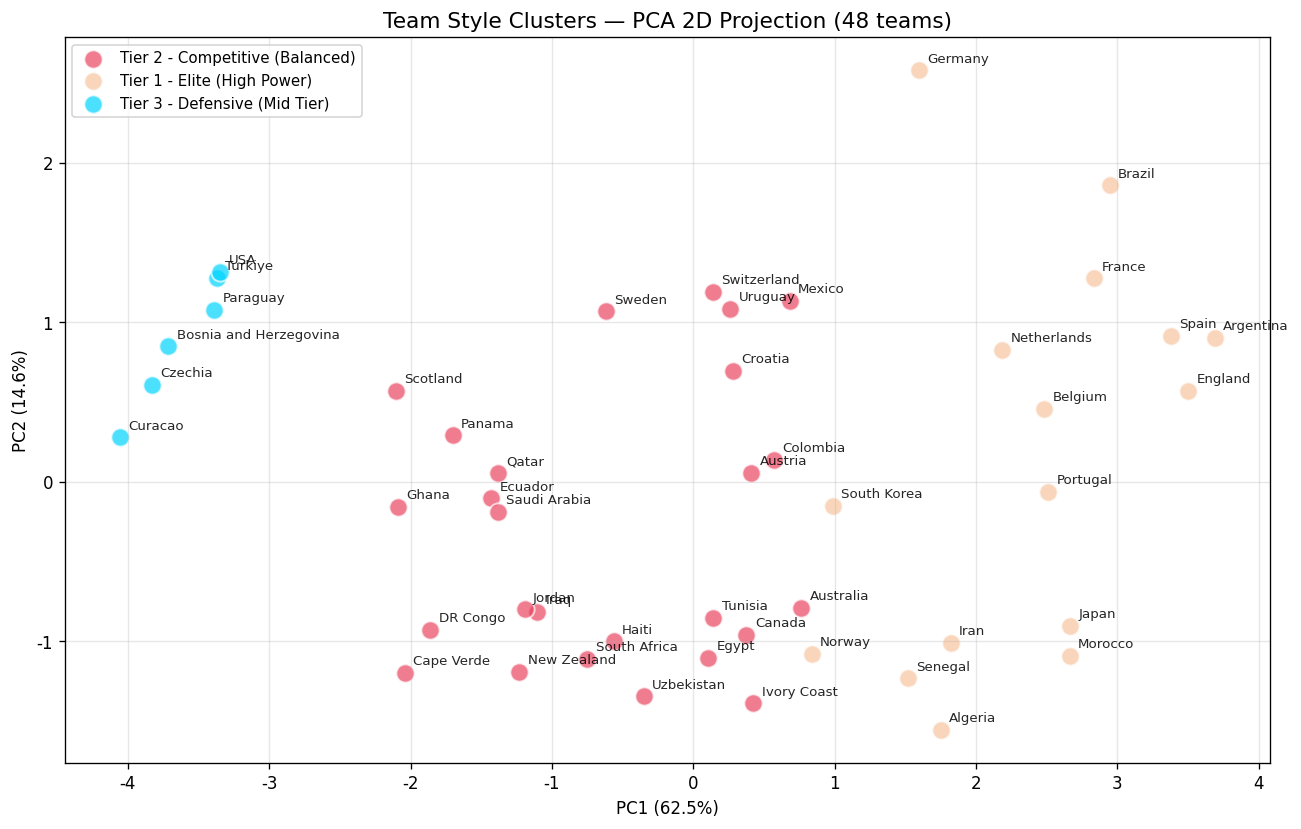
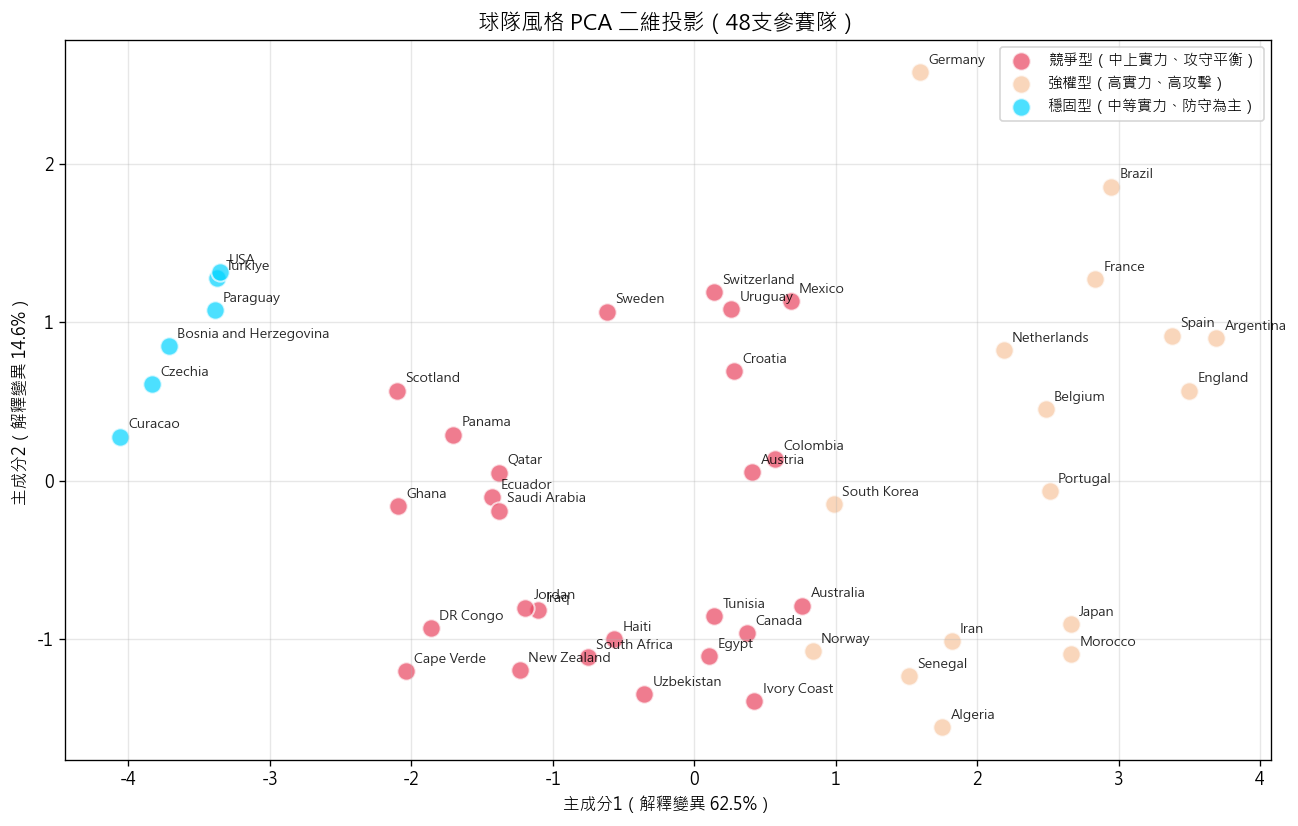
fix: 雷達圖/PCA圖改用微軟正黑體渲染繁體中文標籤，重新生成靜態圖片

diff --git a/pretrain.py b/pretrain.py
@@ -633,6 +633,11 @@ def run_clustering(match_df):
         plt = None
 
     if plt is not None:
+        # 使用繁體中文字型（本機 Windows 微軟正黑體）
+        plt.rcParams['font.sans-serif'] = ['Microsoft JhengHei', 'Apple LiGothic',
+                                           'Noto Sans CJK TC', 'DejaVu Sans']
+        plt.rcParams['axes.unicode_minus'] = False
+
         # 雷達圖
         radar_feats = ['win_rate', 'avg_goals', 'avg_conceded', 'goal_diff', 'fifa_pts']
         # 將每個 cluster 中心 normalize 到 0~1
@@ -648,13 +653,13 @@ def run_clustering(match_df):
         for c in range(best_k):
             vals = c_norm.iloc[c].tolist()
             vals += vals[:1]
-            ax.plot(angles, vals, 'o-', linewidth=2, label=cluster_names_en[c], color=colors[c % len(colors)])
+            ax.plot(angles, vals, 'o-', linewidth=2, label=cluster_names[c].replace('🔥','').replace('⚔','').replace('🛡','').replace('🌱','').strip(), color=colors[c % len(colors)])
             ax.fill(angles, vals, alpha=0.15, color=colors[c % len(colors)])
         ax.set_thetagrids(np.degrees(angles[:-1]),
-                          ['Win Rate', 'Avg Goals', 'Defense (rev)', 'Goal Diff', 'FIFA Pts'])
+                          ['勝率', '場均進球', '防守（反向）', '淨勝球', 'FIFA積分'])
         ax.set_ylim(0, 1)
-        ax.set_title('Team Style Clusters — Radar Chart (k=%d, silhouette=%.2f)' % (best_k, sil[best_k]),
-                     fontsize=12, pad=20)
+        ax.set_title('球隊風格分群 — 雷達圖（k=%d，Silhouette=%.2f）' % (best_k, sil[best_k]),
+                     fontsize=13, pad=20)
         ax.legend(loc='upper right', bbox_to_anchor=(1.3, 1.1), fontsize=9)
         plt.tight_layout()
         plt.savefig(os.path.join(FIG_DIR, '14_cluster_radar.png'), dpi=120, bbox_inches='tight')
@@ -666,14 +671,15 @@ def run_clustering(match_df):
         for c in range(best_k):
             sub = df[df['cluster'] == c]
             ax.scatter(sub['pca1'], sub['pca2'], s=120, alpha=0.7,
-                       label=cluster_names_en[c], color=colors[c % len(colors)],
+                       label=cluster_names[c].replace('🔥','').replace('⚔','').replace('🛡','').replace('🌱','').strip(),
+                       color=colors[c % len(colors)],
                        edgecolors='white', linewidths=1.2)
             for t, row in sub.iterrows():
                 ax.annotate(t, (row['pca1'], row['pca2']), fontsize=8, alpha=0.85,
                             xytext=(5, 5), textcoords='offset points')
-        ax.set_xlabel(f'PC1 ({pca.explained_variance_ratio_[0]*100:.1f}%)')
-        ax.set_ylabel(f'PC2 ({pca.explained_variance_ratio_[1]*100:.1f}%)')
-        ax.set_title('Team Style Clusters — PCA 2D Projection (48 teams)', fontsize=13)
+        ax.set_xlabel(f'主成分1（解釋變異 {pca.explained_variance_ratio_[0]*100:.1f}%）')
+        ax.set_ylabel(f'主成分2（解釋變異 {pca.explained_variance_ratio_[1]*100:.1f}%）')
+        ax.set_title('球隊風格 PCA 二維投影（48支參賽隊）', fontsize=13)
         ax.legend(loc='best', fontsize=9)
         ax.grid(True, alpha=0.3)
         plt.tight_layout()
